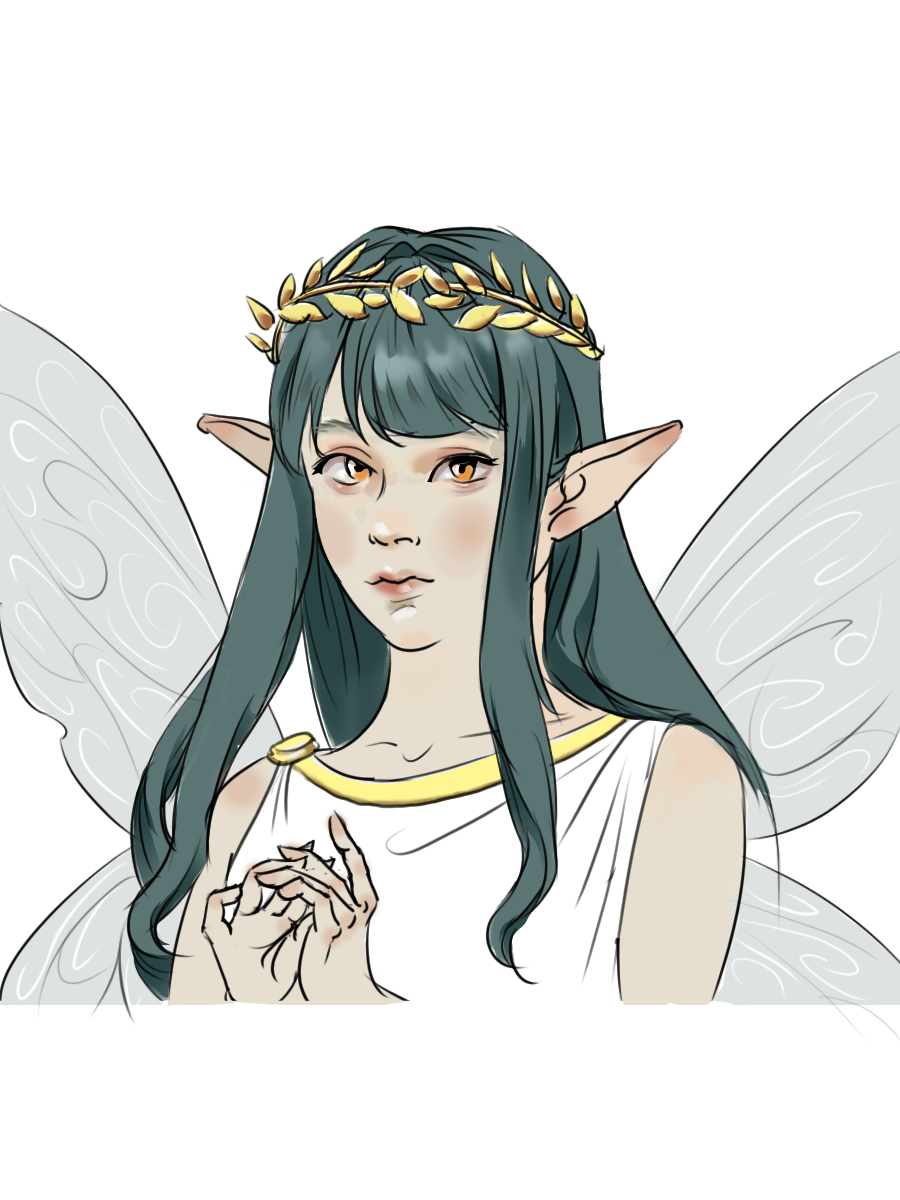
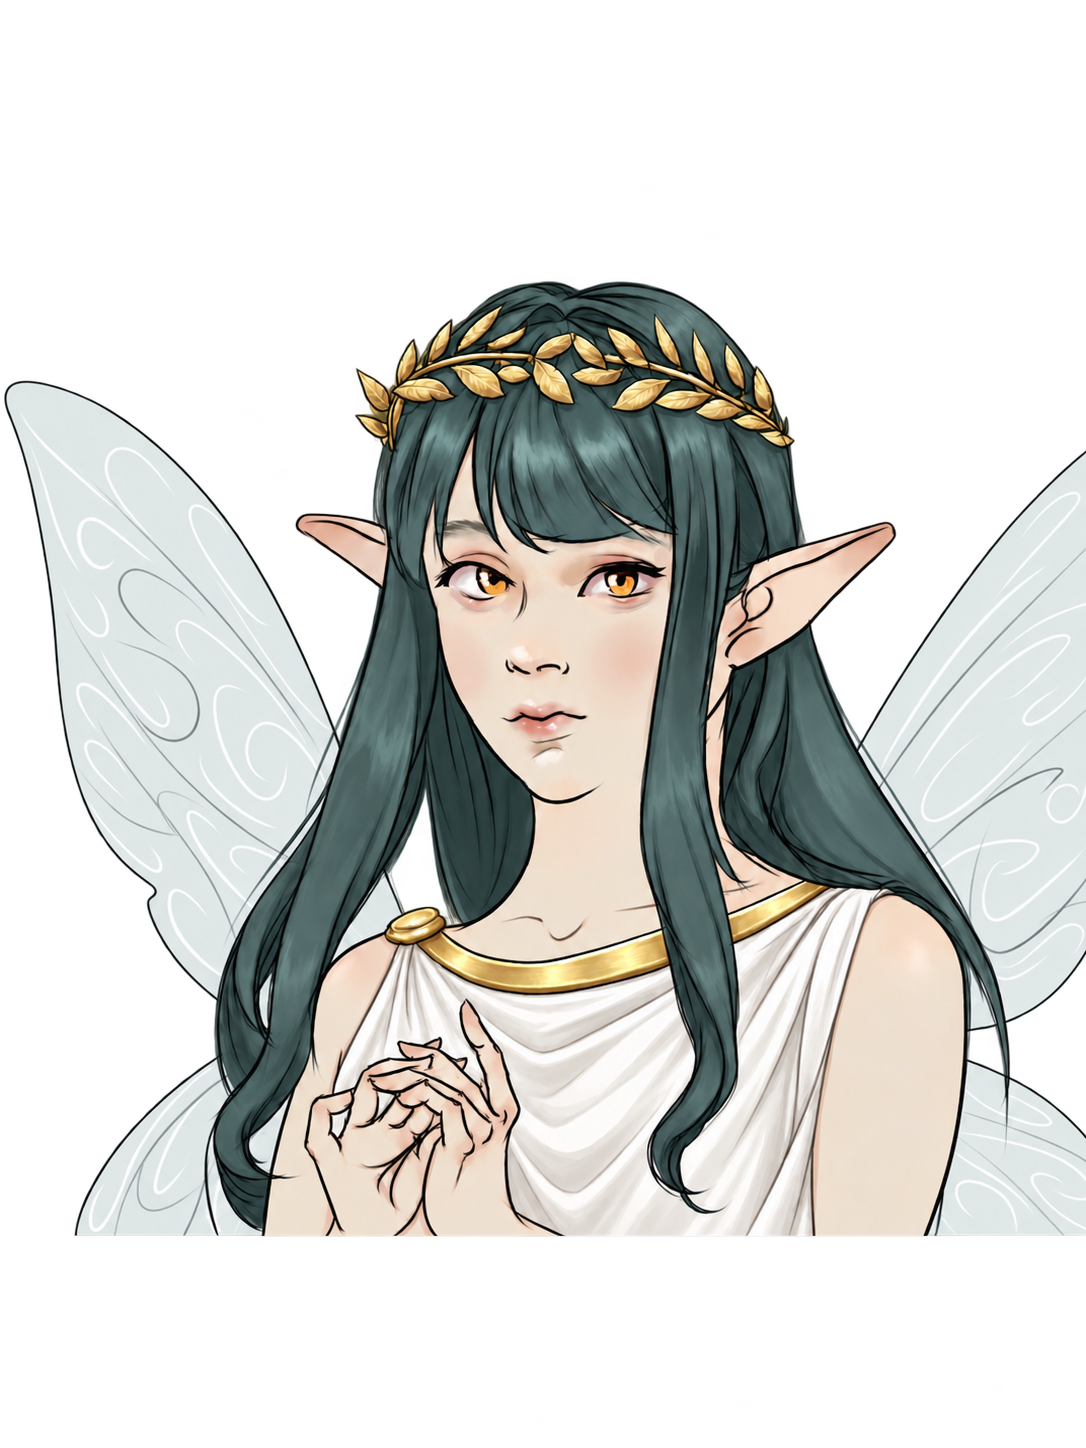
feat: 接入 Byeori 与 Haewon 无框对话立绘

diff --git a/styles.css b/styles.css
@@ -1032,27 +1032,18 @@ body.recovery-page {
   pointer-events: none; /* 点击穿透，不影响游戏区（对话页由对话框处理） */
 }
 
-/* 序章以场景插画承载叙事，保留画面清晰度与烛光。 */
-#dialog-backdrop.scene-art {
-  background: transparent;
-  backdrop-filter: none;
-  -webkit-backdrop-filter: none;
-}
-
-/* 说话人头像位（Issue #28）：贴在对话框右上方、底边压在框顶上沿向上延伸；
-   3:4 竖版半身照，宽 = 对话框宽 × 2/6；缺图时由 main.js 挂 .hidden 隐藏（nar/all 无立绘） */
+/* 透明原图直接叠在虚化场景上：底边贴对话框顶边，不加底板与画框。
+   完整保留原图比例；限制高度，为矮窗口与长对话留出空间。 */
 #dialog-portrait {
   position: absolute;
-  right: -2px;           /* 外边框与对话框右边框对齐 */
-  bottom: 100%;          /* 底边贴对话框上边沿，向上延伸 */
-  width: 33.333%;        /* 对话框宽 × 2/6 */
-  aspect-ratio: 3 / 4;   /* 宽:高 = 3:4 竖版半身照 */
-  box-sizing: border-box;
-  image-rendering: pixelated;
-  object-fit: cover;
-  background: #1a1033;
-  border: 2px solid #ffc857;
-  border-radius: 6px;
+  right: -2px;
+  bottom: calc(100% + 2px); /* 对齐对话框外边沿 */
+  width: 33.333%;
+  height: auto;
+  max-height: 45vh;
+  object-fit: contain;
+  object-position: right bottom;
+  image-rendering: auto;
   pointer-events: none;
 }
 
@@ -1123,8 +1114,12 @@ body.recovery-page {
     }
   }
 
-  /* 矮横屏为抬高的对话框上方留出空间，头像保留 3:4 比例。 */
+  /* 矮横屏的按键位于两侧，对话贴底，为选项与立绘留出纵向空间。 */
   @media (orientation: landscape) and (max-height: 450px) {
+    #dialog {
+      bottom: 10px;
+    }
+
     #dialog-portrait {
       width: min(33.333%, 12vh);
     }

diff --git a/js/main.js b/js/main.js
@@ -111,7 +111,6 @@
   // 碰撞与机关判定统一走 engine.Mechanics（#9）：墙/水、关闭的门、箱子均阻挡。
 
   /* 说话人头像位（Issue #28）：素材规范见 assets/characters/README.md */
-  const PORTRAIT_BASE = 'assets/characters/';
   const PORTRAIT_NO_ART = { nar: true, all: true }; // 伪说话人无立绘（GAME_DESIGN §3）
 
   /* HUD 带：位于游戏画面上方（styles.css #stage 竖排），渲染器缩放时
@@ -3165,21 +3164,26 @@
 
     /**
      * 说话人头像位（Issue #28）：按 speaker 加载素材立绘（对话框右上方框外、
-     * 探出框顶，3:4 半身照，规格见 assets/characters/README.md）。
+     * 探出框顶，直接使用 characters 中配置的透明原图）。
      * nar/all 等伪说话人直接隐藏；图片缺失由 onerror 降级隐藏，不影响对话流程。
      */
     _setPortrait(speaker) {
       const img = this._ui.dialogPortrait;
       if (!img) return;
-      if (!speaker || PORTRAIT_NO_ART[speaker]) {
+      const character = this.characters[speaker];
+      if (!character || !character.portrait || PORTRAIT_NO_ART[speaker]) {
         this._hidePortrait();
         return;
       }
-      const src = PORTRAIT_BASE + speaker + '/art/' + speaker + '-portrait.png';
+      const src = character.portrait;
       if (this._failedPortraits.has(src)) {
         this._hidePortrait();
         return;
       }
+      // 按原图底部透明留白比例下移，让可见人物底边贴框，而非 PNG 画布底边。
+      const bottom = (character.portraitBottom || 0) * 100;
+      img.style.transform = 'translateY(' + bottom + '%)';
+      img.style.clipPath = 'inset(0 0 ' + bottom + '% 0)';
       this._show(img);
       const dialog = this._ui.dialog;
       if (dialog && dialog.classList) dialog.classList.add('has-portrait');

diff --git a/js/data.js b/js/data.js
@@ -35,7 +35,6 @@
       p0: {
         title: '生日夜的房间',
         background: 'assets/scenes/p0-bedroom.png',
-        portraits: false, // 序章聚焦场景；Byeori 立绘尚未制作
       },
     },
 
@@ -56,12 +55,12 @@
     /* 说话人字典（GAME_DESIGN.md §3：姓名框色与显示名） */
     characters: {
       lily: { name: 'Lily', color: '#7FB8E6' },
-      haewon: { name: 'Haewon', color: '#FFB14E' },
+      haewon: { name: 'Haewon', color: '#FFB14E', portrait: 'assets/characters/haewon/art/haewon-1.png', portraitBottom: 55 / 1448 },
       sullyoon: { name: 'Sullyoon', color: '#B49BFF' },
       bae: { name: 'Bae', color: '#FF7BA9' },
       jiwoo: { name: 'Jiwoo', color: '#FFE066' },
       kyujin: { name: 'Kyujin', color: '#5EE6B8' },
-      byeori: { name: 'Byeori', color: '#FFD700' },
+      byeori: { name: 'Byeori', color: '#FFD700', portrait: 'assets/characters/byeori/art/byeori.png', portraitBottom: 212 / 1448 },
       dj: { name: '街头DJ', color: '#FF5D8F' },
       sheep: { name: '黑羊', color: '#B8A8E0' },
       nar: { name: '', color: '#C0C0C0' },       // 旁白：隐藏姓名标签
@@ -83,7 +82,6 @@
           "gold": "#E4BD8B"
         },
         "bgm": "l1_candle",
-        "portraits": false,
         "starCount": 3,
         "combat": false,
         "map": {

diff --git a/tools/smoke-main.html b/tools/smoke-main.html
@@ -283,7 +283,11 @@
   <script src="../js/data.js"></script>
   <script>
     // 本页验证占位关状态机；真实序章 / 关 1 另由 play-level1.js 验证。
-    window.GAME = { avatarPresets: window.GAME.avatarPresets };
+    window.GAME = { avatarPresets: window.GAME.avatarPresets, characters: {
+      byeori: Object.assign({}, window.GAME.characters.byeori, {
+        portrait: '../' + window.GAME.characters.byeori.portrait
+      })
+    } };
   </script>
   <script src="../js/cloud-config.js"></script>
   <script src="../js/engine.js"></script>
@@ -415,7 +419,7 @@
       ok('→ dialogue', game.state === 'dialogue' && shown('dialog') && text('dialog-name') === 'Byeori');
       ok('对话背景虚化层显示', shown('dialog-backdrop'));
       var portrait = document.getElementById('dialog-portrait');
-      ok('头像 src 指向素材', portrait.getAttribute('src') === 'assets/characters/byeori/art/byeori-portrait.png');
+      ok('头像 src 指向素材', portrait.getAttribute('src') === '../assets/characters/byeori/art/byeori.png');
       ok('头像显示 + has-portrait', !portrait.classList.contains('hidden')
         && document.getElementById('dialog').classList.contains('has-portrait'));
       var fullLine = 'NSWER！欢迎来到 MIXXTOPIA！我是星星精灵 Byeori。';

diff --git a/assets/characters/README.md b/assets/characters/README.md
@@ -1,7 +1,7 @@
 # assets/characters · 角色绘画素材
 
 > 存放**我们自己画的**角色绘画素材（原创，非官方图源）。
-> 两种用途：① `art/` 原画 → 用于聊天框（对话框）**右上方**的角色头像；
+> 两种用途：① `art/` 原画 → 用于聊天框（对话框）**右上方**的角色立绘；
 > ② `pixel/` 由原画衍生的**像素游戏角色**（供 `js/sprites.js` 接入，对应 Issue #13）。
 
 ## 目录结构
@@ -10,7 +10,7 @@
 assets/characters/
 ├── README.md          # 本文件：命名与规格规范
 ├── nswer/             # NSWER（玩家，全程）
-│   ├── art/           # 原画 + 聊天框头像成品
+│   ├── art/           # 原画（直接用作对话立绘）
 │   └── pixel/         # 像素角色衍生
 ├── lily/              # Lily
 ├── haewon/            # Haewon
@@ -31,24 +31,26 @@ assets/characters/
 |---|---|---|---|---|
 | `nswer/` | NSWER（玩家） | —（旁白用 `nar`） | `#FFFFFF` | ⬜ 未开始 |
 | `lily/` | Lily | `lily` | `#7FB8E6` | ⬜ 未开始 |
-| `haewon/` | Haewon | `haewon` | `#FFB14E` | ⬜ 未开始 |
+| `haewon/` | Haewon | `haewon` | `#FFB14E` | 已接入 `art/haewon-1.png` |
 | `sullyoon/` | Sullyoon | `sullyoon` | `#B49BFF` | ⬜ 未开始 |
 | `bae/` | Bae | `bae` | `#FF7BA9` | ⬜ 未开始 |
 | `jiwoo/` | Jiwoo | `jiwoo` | `#FFE066` | ⬜ 未开始 |
 | `kyujin/` | Kyujin | `kyujin` | `#5EE6B8` | ⬜ 未开始 |
-| `byeori/` | Byeori | `byeori` | `#FFD700` | ⬜ 未开始 |
+| `byeori/` | Byeori | `byeori` | `#FFD700` | 已接入 `art/byeori.png` |
 | `dj/` | 街头DJ | `dj` | `#FF5D8F` | ⬜ 未开始 |
 | `sheep/` | 黑羊 | `sheep` | `#B8A8E0` | ⬜ 未开始 |
 
 > 另有两位对话专用伪说话人「旁白 `nar`」「全员合唱 `all`」不单独建目录（无立绘需求）。
 
-## art/ —— 聊天框头像原画
+## art/ —— 对话立绘原图
 
-- **用途**：`index.html` 对话框 `#dialog` 右上方框外的说话人头像位（**UI 已由 Issue #28 接线**：按 speaker 自动加载 `<speaker>-portrait.png`，`nar`/`all` 无立绘、缺图自动隐藏）。
-- **格式**：PNG、透明背景、**3:4 竖版**（宽:高 = 3:4），角色**半身照**构图。
-- **尺寸建议**：原画/源文件（PSD、AI、大图）随意放；**交付头像成品建议 768×1024**（头像位显示宽 = 对话框宽 × 2/6，高 = 宽 × 4/3，4x 缩放时约 420×560px，768×1024 可覆盖 2x 高 DPI）。
-- **命名**：`<speaker>-portrait.png`，如 `lily-portrait.png`；过程稿自由命名，如 `lily-sketch.png`。
-- **要求**：同一角色的头像与原画保持同一配色，方便像素化时取色。
+- **用途**：对话框 `#dialog` 右上方框外的说话人立绘，底边贴框顶、向上延伸。背景游戏场景压暗虚化（含序章），透明区域直接透出场景；不加画框、底板或装饰边缘。
+- **接入**：在 `js/data.js` 的 `characters[speaker].portrait` 配置原图路径。当前使用 `haewon/art/haewon-1.png` 和 `byeori/art/byeori.png`，无需重命名、复制或另做头像成品。
+- **底边对齐**：`portraitBottom` 记录原图底部透明留白占整图高度的比例（Haewon 修订版为 55/1448，Byeori 为 212/1448）；显示时裁去底部留白与零散残线，再按比例下移，使人物主体底边贴住对话框顶边，不修改原图文件。
+- **格式**：使用带透明背景的 PNG 原图，保持原比例与完整内容，不强制 3:4、不裁切；使用平滑缩放，不作像素化处理。
+- **显示尺寸**：默认宽度为对话框宽的 2/6，高度最多 45vh；手机矮横屏进一步缩小，避免超出画面。
+- **缺图**：未配置素材的角色、`nar` / `all` 隐藏立绘；图片加载失败也隐藏，不影响台词和选项。
+- **配色**：同一角色的原图与后续像素角色保持一致，方便取色。
 
 ## pixel/ —— 像素游戏角色衍生
 
@@ -61,9 +63,9 @@ assets/characters/
 - **命名**：单帧 `<speaker>-<方向>-<帧号>.png`（如 `nswer-down-1.png`）；也欢迎直接出精灵表 `<speaker>-sheet.png`。
 - **交付**：最终像素数据接入 `js/sprites.js`；每关调色板主题色参考 GAME_DESIGN §14，角色主体色建议保持全关一致（识别度优先）。
 
-## 工作流（原画 → 头像 → 像素）
+## 工作流（原画 → 对话立绘 / 像素角色）
 
 1. 在 `<角色>/art/` 放入自己画的原画；
-2. 由原画裁切/处理出 3:4 竖版半身照透明 PNG 头像（建议 768×1024），存同目录（供聊天框右上方框外头像位使用）；
-3. 以头像配色为基准，绘制 16px 像素角色，存 `<角色>/pixel/`；
+2. 在 `characters[speaker].portrait` 配置原图路径，直接用于对话框右上方立绘；
+3. 以原图配色为基准，绘制 16px 像素角色，存 `<角色>/pixel/`；
 4. Issue #13 开工时，把 `pixel/` 素材转录进 `js/sprites.js`，并把本表「素材状态」改为 ✅。
